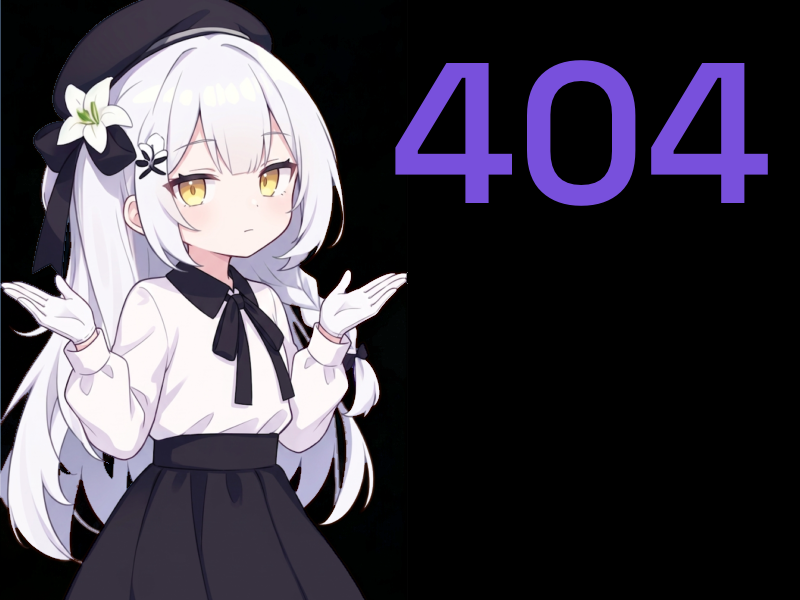
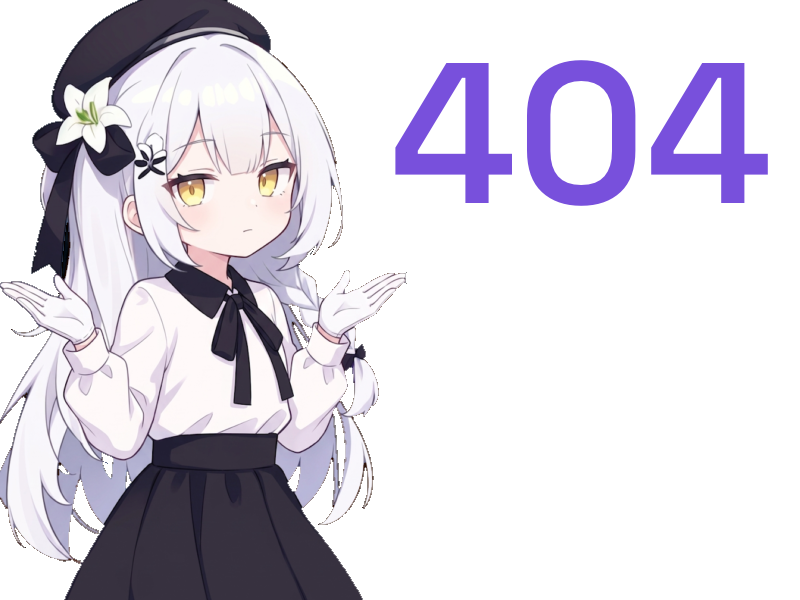
fix: simplify homepage and refresh 404

diff --git a/404.html b/404.html
@@ -10,9 +10,6 @@
     * { box-sizing:border-box; }
     body { margin:0; min-height:100vh; display:grid; place-items:center; padding:24px; font:16px/1.5 Inter,system-ui,sans-serif; color:var(--text); background:radial-gradient(circle at 50% 0,#241944 0,#08080d 55%); }
     main { width:min(100%,520px); padding:42px 30px; text-align:center; background:rgba(18,18,27,.86); border:1px solid var(--line); border-radius:24px; box-shadow:0 24px 80px #0008; }
-    .code { margin:0; color:var(--accent); font:800 clamp(72px,20vw,120px)/.9 ui-monospace,monospace; letter-spacing:-.08em; }
-    h1 { margin:26px 0 8px; font-size:24px; }
-    p { margin:0 auto 26px; max-width:360px; color:var(--muted); }
     a { display:inline-block; padding:12px 20px; border-radius:12px; color:#130d22; background:var(--accent); font-weight:700; text-decoration:none; }
     a:hover { filter:brightness(1.12); }
   </style>
@@ -20,9 +17,6 @@
 <body>
   <main>
     <img src="icons/404-art.PNG" alt="" style="display:block;width:100%;max-height:240px;object-fit:contain;margin:0 auto 18px;">
-    <p class="code">404</p>
-    <h1>Страница не найдена</h1>
-    <p>Похоже, эта ссылка устарела или страница была перемещена.</p>
     <a href="/">Вернуться на главную</a>
   </main>
 </body>

diff --git a/index.html b/index.html
@@ -167,9 +167,7 @@
     }
     .lang-btn.active { background: var(--accent); color: #fff; }
 
-    /* ── HERO ───────────────────────────────────── */
-    #hero { padding: 48px 20px 32px; }
-    .hero-art { display:block; width:100%; max-height:180px; object-fit:cover; object-position:center top; margin-bottom:20px; border:1px solid var(--border); border-radius:var(--r); opacity:.92; }
+    /* ── HERO ───────────────────────────────────── */    #hero { padding: 48px 20px 32px; }
     .hero-inner { max-width: 640px; margin: 0 auto; }
     .hero-inner h1 {
       font-family: 'Space Grotesk', sans-serif;
@@ -1103,7 +1101,6 @@
   <!-- HERO -->
   <section id="hero">
     <div class="hero-inner fade-up">
-      <img class="hero-art" src="icons/hero.png" alt="nyx.sideload">
       <h1 class="display">
         <span data-i="hero-title-1">iOS</span> <em data-i="hero-title-2">без ограничений</em><br/>
         <span data-i="hero-title-3">на своих условиях</span>
